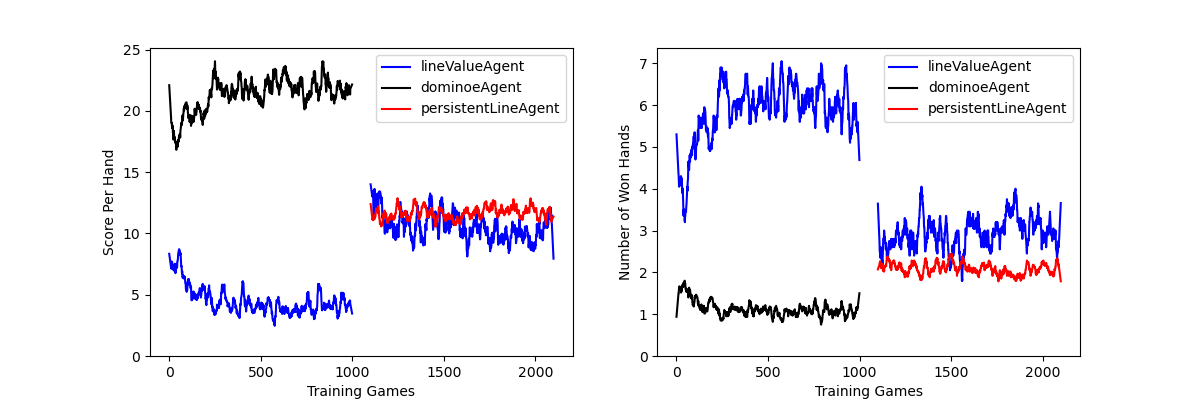
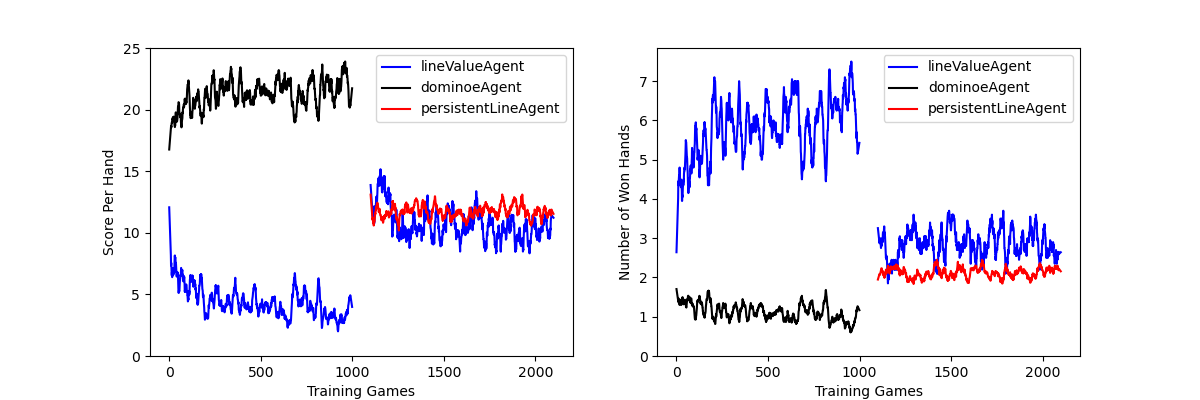
Documentation mostly + a little
Fixed name convention in tdAgents.py

Ran some more experiments with aligned training games (for better comparison) and updated the default parameters so equal training is the default (in trainValueAgent and multiStageTraining).

A few other small fixes.

diff --git a/dominoes/leagueManager.py b/dominoes/leagueManager.py
@@ -34,9 +34,11 @@ class leagueManager:
             assert self.checkAgent(agent), f"Agent #{idx} is not a dominoe agent"
             assert isinstance(agent, dominoeAgent), f"Agent #{idx} must be an instantiated object of a dominoe agent"
             assert self.checkParameters(agent), f"Agent #{idx} has the wrong game parameters (either numPlayers or highestDominoe)"
+        agentIndex = []
         for agent in agentList:
             # Then once you know they are valid, add all of them (double assertions are worth it for expected behavior)
-            self.addAgent(agent)
+            cIndex = self.addAgent(agent)
+            agentIndex.append(cIndex[0])
         
     def addAgent(self, agent):
         # This method adds a single instantiated agent to the league
@@ -46,7 +48,9 @@ class leagueManager:
         agent.device = self.device # update device of agent
         self.agents.append(agent)
         self.elo.append(self.elo_base)
+        agentIndex = [self.numAgents]
         self.numAgents += 1
+        return agentIndex
         
     def addAgentType(self, agentType, num2add=1):
         # This method adds a new agent to the league
@@ -55,10 +59,12 @@ class leagueManager:
         assert isinstance(num2add, int) and num2add>0, "num2add must be a positive integer"
         assert self.checkAgent(agentType), "agentType is not a dominoe agent"
         assert not(isinstance(agentType,dominoeAgent)), "agentType must be a class definition of a dominoeAgent, not an instantiated object"
+        agentIndex = [i for i in range(self.numAgents,self.numAgents+num2add)]
         for _ in range(num2add):
             self.agents.append(agentType(self.numPlayers, self.highestDominoe, self.dominoes, self.numDominoes, device=self.device))
             self.elo.append(self.elo_base)
             self.numAgents += 1
+        return agentIndex
 
     def checkAgent(self, agent):
         # Supporting function to make sure that "agent" is either a instance of a dominoe agent or a class definition

diff --git a/experiments/trainValueAgent.py b/experiments/trainValueAgent.py
@@ -26,7 +26,7 @@ parser = argparse.ArgumentParser(description='Run dominoes experiment.')
 parser.add_argument('-n','--num-players', type=int, default=4, help='the number of agents in the game of dominoes')
 parser.add_argument('-hd','--highest-dominoe', type=int, default=9, help='the highest dominoe in the board')
 parser.add_argument('-s','--shuffle-agents', type=bool, default=True, help='whether to shuffle the order of the agents each hand')
-parser.add_argument('-tg','--train-games',type=int, default=500, help='the number of training games')
+parser.add_argument('-tg','--train-games',type=int, default=2000, help='the number of training games')
 parser.add_argument('-tr','--train-rounds',type=int, default=None, help='the number of training rounds')
 parser.add_argument('-op','--opponent',type=str, default='dominoeAgent', help='which opponent to play the basic value agent against for training and testing')
 parser.add_argument('-va','--value-agent',type=str, default='basicValueAgent', help='which value agent to use')

diff --git a/dominoes/agents/tdAgents.py b/dominoes/agents/tdAgents.py
@@ -113,8 +113,8 @@ class valueAgent(dominoeAgent):
         self.finalScoreOutput = self.finalScoreNetwork(self.valueNetworkInput)
         
         # compute gradient of V(S,w) with respect to weights and add it to eligibility traces
-        for idx,hvOutput in enumerate(self.finalScoreOutput):
-            hvOutput.backward(retain_graph=True) # measure gradient of weights with respect to this output value
+        for idx,fsOutput in enumerate(self.finalScoreOutput):
+            fsOutput.backward(retain_graph=True) # measure gradient of weights with respect to this output value
             for trace,prms in zip(self.finalScoreEligibility[idx], self.finalScoreNetwork.parameters()):
                 trace *= self.lam # discount past eligibility traces by lambda
                 trace += prms.grad # add new gradient to eligibility trace

diff --git a/docs/basicTDLambdaAgent.md b/docs/basicTDLambdaAgent.md
@@ -2,13 +2,13 @@
 
 The primary focus of this repository is to train deep RL models to excel at 
 the game of dominoes. For now, the repository exclusively uses agents trained
-with the TD-lambda algorithm. I have explored how variations in TD-lambda 
-agents perform, including analyses related to different input information, 
-different architectures, and different training programs. 
+with the TD-lambda algorithm. I have explored how various TD-lambda agents 
+perform, including analyses related to differences in input structure, 
+network architectures, and training programs. 
 
-This documentation file explores the first few architectures and training 
-programs. It starts by explaining the core of how TD-lambda agents work, then
-shows some initial results of TD-lambda agent performance. 
+This documentation file starts by explaining the TD-lambda algorithm and how 
+it is applied to dominoes, then shows how it is implemented by TD-lambda 
+agents.
 
 ## The TD-Lambda Algorithm
 The foundation of the TD-Lambda algorithm is 
@@ -16,15 +16,16 @@ The foundation of the TD-Lambda algorithm is
 In temporal-difference learning, a value function $V(S)$ is used to predict 
 the value ($V$) of the current state ($S$). The value function is adjusted by
 any rewards (or punishments) that are received ($r$), and the predicted
-value of the next observed state. 
+value of the next observed state, with some learning rate $\alpha$ and a 
+discounting of future reward $\gamma$. 
 
-$$\large V(S_t) &larr; V(S_t) + \alpha (r_{t+1} + V(S_{t+1}) - V(S_t))$$
+$$\large V(S) &larr; V(S) + \alpha (r + \gamma V(S') - V(S))$$
 
 The term in the parentheses is called the temporal difference error because it
 reflects the error in predicting the next states reward from the previous 
 state. It is denoted as $\delta$:
 
-$$\large \delta_t = (r_{t+1} + V(S_{t+1}) - V(S_t))$$ 
+$$\large \delta = (r + V(S') - V(S))$$ 
 
 Suppose the value function is defined as a neural network $f$ with parameters 
 $\theta$: 
@@ -38,8 +39,8 @@ parameters $\theta$:
 
 $$\large \nabla_{\theta}f_V(S, \theta)$$
 
-However, in autocorrelated games like dominoes, it makes sense to keep track
-of how the parameters have been influencing the estimate of the final score
+In an autocorrelated games like dominoes, it makes sense to keep track of how
+the parameters have been influencing the estimate of the final score 
 throughout each hand. This value is a temporally discounted accumulation of
 gradients that is referred to as the eligibility trace, because it represents
 the "eligibility" of each parameter to be updated by temporal difference 
@@ -47,20 +48,25 @@ errors. The eligibility trace is denoted $Z$ and is measured as follows:
 
 $$\large Z_t = \sum_{k=1}^{t}\lambda^{t-k}\nabla_{\theta}f_V(S_k, \theta)$$
 
-Fortunately, this equation is recursive so can be updated each time step 
+Fortunately, this equation is recursive, so it can be updated each time step 
 without recomputing the gradients of all past time steps as follows:
 
 $$\large Z_{t+1} = \lambda Z_t + \nabla_{\theta}f_V(S_t, \theta)$$
 
-We can't just add the eligibility trace to the networks parameters, we have to
-make sure that we update the parameters such that the value function will 
-become progressively more accurate over time. To do that, the eligibility 
+Here, $\lambda$ represents the temporal discounting of past eligibility, and
+is the reason that TD-Lambda gets its name. Lambda scales between zero and
+one, i.e. $0\le\lambda\le1$. Higher values of lambda lead to longer-lasting
+memory of how past states lead to future rewards. 
+
+Now, we can't just add the eligibility trace to the networks parameters, we 
+have to make sure that we update the parameters such that the value function 
+will become progressively more accurate over time. To do that, the eligibility
 trace needs to be scaled by the temporal difference error ($\delta$), which 
 makes sure that the sign of the update is right, and also ensures that the 
 scale of the update is proportional to how much error there was in the 
 estimate. And of course, everything is scaled by a learning rate $\alpha$. So,
 here we have it, looking at the update to a specific parameter $\theta_i$, 
-associated with its own elgibility trace $Z_i$:
+associated with its own component of the elgibility trace $Z_i$:
 
 $$\large \theta_i &larr; \theta_i + \alpha \delta Z_i$$
 
@@ -95,11 +101,88 @@ $$\large \text{if hand is over:} \hspace{30pt}
 
 
 ## Features of TD-Lambda Agents
-Here, I explain the code (and algorithm) underlying how TD-lambda agents
-learn to play dominoes. This section provides an overview with a few key
-details; for futher information see the [code](../dominoes/agents/tdAgents.py)
-defining TD-lambda agents and the 
-[network architectures](../dominoes/networks.py) that are used by them. 
+Here, I explain the code that implements TD-lambda in value agents as they 
+learn to play dominoes. This section provides an overview with a few key 
+details; for further information see the 
+[code](../dominoes/agents/tdAgents.py) defining TD-lambda agents and the 
+[network architectures](../dominoes/networks.py) that are used as value 
+functions.
+
+### Overall Architecture
+Following the style of the hand-crafted [agents](../dominoes/agents) in this
+repository, there is a parent class called 
+[`valueAgent`](../dominoes/agents/tdAgents.py) that defines the core code of 
+any agent learning with the TD-lambda algorithm. This parent class is not 
+meant to be used on its own- child classes defined within the same file 
+inherit from `valueAgent` and add their own rules for measuring value. I'll 
+also mention that if you add a new agent, then you should make sure to add it
+to the imports [here](../dominoes/agents/__init__.py). 
+
+### Creating a deep network to represent the value function
+This repository contains several network architectures designed to represent 
+the value function (all coded in pytorch). These architectures are located in
+the [networks](../dominoes/networks.py) file and are created by the 
+`prepareNetwork()` method of each `valueAgent`. At the time of the network 
+creation, TD-Lambda agents also initialize their eligibility traces with torch
+tensors the same shape as the network parameters. 
+
+### Preparing input to the value function
+Since all network architectures are coded in pytorch, the first step of 
+measuring the value of a game state is converting the game state into a torch
+tensor. Like every [`dominoeAgent`](../dominoes/agents/dominoeAgent.py), 
+TD-lambda agents have a method called `processGameState()` that is called by 
+the `gameState()` method when the [`dominoeGame`](../dominoes/gameplay.py) 
+object feeds the game state to each agent. For TD-Lambda agents, this takes 
+each component of the game state and converts it to a binarized tensor 
+representation, then uses the additional method `prepareValueInputs()` to 
+concatenate each tensor into a vector(s) that represents the input to the 
+value function. 
+
+### Measuring pre-state value estimates
+Every turn, the `dominoeGame` object tells each agent to estimate the 
+pre-state value ($f_V(S)$) with the method `performPrestateValueEstimate()`. 
+Each agent decides whether or not to estimate the pre-state value based on a
+agent-method called `checkTurnUpdate()` based on who's turn it is (and also if
+they are in the "learning" state, which can be updated by `setLearning()`). 
+
+Note: I've found that TD-Lambda agents learn most effectively when they 
+estimate and update their value function on every turn, this might be overkill
+but it works so that's how the code is setup right now. 
+
+Estimating pre-state value is exclusively used to measure the eligibility 
+trace of the value functions's parameters ($Z$) with the gradient of the value
+function ($\nabla_{\theta}f_V(S, \theta)$. Therefore, agents first zero their
+gradients, then estimate the final score given the current game state, and 
+finally compute the gradients to update the eligibility. 
+
+Let an agent be known as `self`, and let `finalScoreOutput` be the output of 
+the value function, let `finalScoreEligibility` be the eligibility traces for
+each parameter, and let `finalScoreNetwork` be the value function of each 
+agent. Here is the code:
+
+```
+for idx,fsOutput in enumerate(self.finalScoreOutput):
+    fsOutput.backward(retain_graph=True) # measure gradient of weights with respect to this output value
+    for trace,prms in zip(self.finalScoreEligibility[idx], self.finalScoreNetwork.parameters()):
+        trace *= self.lam # discount past eligibility traces by lambda
+        trace += prms.grad # add new gradient to eligibility trace
+        prms.grad.zero_() # reset gradients for parameters of finalScoreNetwork in between each backward call from the output
+```
+
+We enumerate through the finalScoreOutput (at the moment, this is just a 
+single value representing the own agent's final score estimate, but the code 
+is written so that this can be extended to represent every players final 
+score). Then, we compute the gradient with respect to each output using 
+`fsOutput.backward(retain_graph=True)`, making sure to retain the graph so 
+that it is presevered across the for loop. Then, for each set of parameters 
+(corresponding to the weights and biases of each layer of the 
+`finalScoreNetwork`), we scale the previous eligibility trace by $\lambda$, 
+add the new gradient, then zero the gradients so each backward call is 
+independent. 
+
+
+
+
 
 
 

diff --git a/experiments/README.md b/experiments/README.md
@@ -26,12 +26,15 @@ can find these files listed in the "Documentation" section of the repositories
 see what their code does (I think they're pretty well commented...). If you
 have a question about an experiment or an idea for a new one, let me know!
 
-### [Basic Agent ELOs](basicAgentELOs.py)
+### Primary Experimental Narrative
+- [Basic Agent ELOs](basicAgentELOs.py)
+- [Training a TD-Lambda Agent](trainValueAgent.py)
+- [Multistage Training of a TD-Lambda Agent](multiStageTraining.py)
+- [Performance of TD-Lambda Agents](valueAgentELOs.py)
 
-### [Best Line Agent ELOs](bestLineAgentELOs.py)
+### Additional Curiosities
+- [Best Line Agent ELOs](bestLineAgentELOs.py)
+- [Table Position Matters](tablePositionMatters.py)
 
-### [Training a TD-Lambda Agent](trainValueAgent.py)
 
-### [Line Value Agent ELOs](lineValueELOs.py)
 
-### [Table Position Matters](tablePositionMatters.py)
